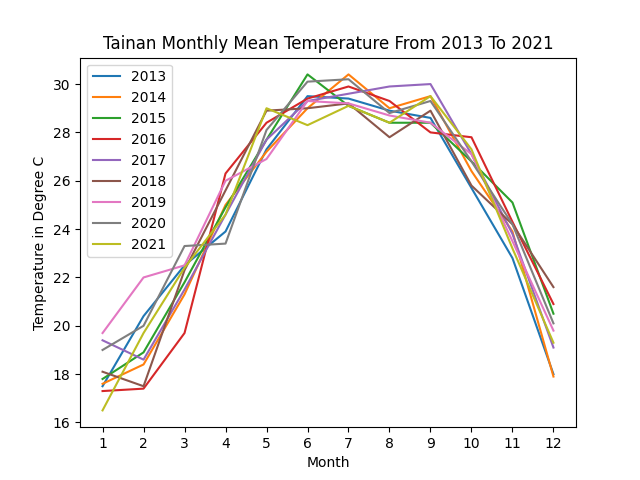
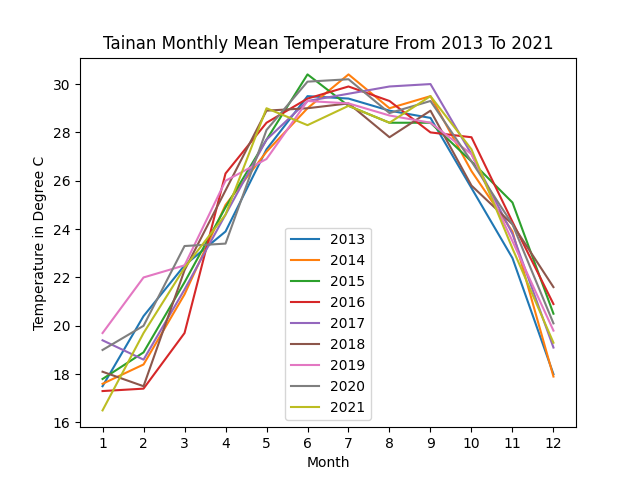
Add files via upload

Changed region(s): [[0.125, 0.125, 0.2812, 0.5312], [0.4375, 0.4688, 0.5938, 0.875], [0.4375, 0.8438, 0.5, 0.875]]

diff --git a/lab13/lab13.py b/lab13/lab13.py
@@ -1,38 +1,38 @@
-import numpy as np
+import numpy as np 
 import matplotlib.pyplot as plt
-column, row = 9, 12
-temp_list=np.zeros((column, row))
-years=[]
+column, row = 9, 12#建立9*12的空的二維陣列
+temp_list=np.zeros((column, row))#將每個元素設為零
+years=[]#儲存年分
 count=0
-with open('Temperature.txt', 'r') as f:
-    for line in f.readlines():
+with open('Temperature.txt', 'r') as f:#讀檔
+    for line in f.readlines():#一行一行讀
         
-        line1=line.strip('\n')
-        line1=line1.split(', ')
-        if len(line1)==1:
+        line1=line.strip('\n')#去掉\n
+        line1=line1.split(', ')#將line1用,分割成串列
+        if len(line1)==1:#去掉第一行
             pass
         else:
-            years.append(line1[0])
-            for i in range(1,13):
+            years.append(line1[0])#紀錄年分
+            for i in range(1,13):#儲存當年溫度
                 temp_list[count-1][i-1]=line1[i]
         count+=1
         
     print(temp_list)
-    f.close
-month=[]
-for i in range(1,13):
+    f.close#關閉檔案
+month=[]#記錄月份
+for i in range(1,13):#儲存月份
     month.append(i)
-for i in range(0,9):
+for i in range(0,9):#計算平均溫度
     plt.plot(month, temp_list[i],label=str(2013+i))
 plt.title('Tainan Monthly Mean Temperature From 2013 To 2021')
 plt.xlabel('Month')
 plt.ylabel('Temperature in Degree C')
 plt.xticks(month,month)
-plt.legend()
+plt.legend(loc='lower center')
 plt.savefig('lab13_01.png')
 
-avg_temp=[]
-avg_ans=0
+avg_temp=[]#紀錄每個月平均溫度
+avg_ans=0#記錄總平均溫度
 sum=0
 for i in month:
     for j in range(9):
@@ -41,13 +41,12 @@ for i in month:
     avg_ans+=sum/9
     sum=0
 avg_ans=avg_ans/12
-plt.clf() 
-plt.plot(month, avg_temp,marker='.',mec = 'r', mfc = 'r')
-plt.axhline(y=avg_ans,linestyle='--',color='r',label='Mean of 9 years')
+plt.clf() #重整
+plt.plot(month, avg_temp,marker='.',mec = 'r', mfc = 'r')#平均溫度變化標記的邊緣與面都是紅色
+plt.axhline(y=avg_ans,linestyle='--',color='r',label='Mean of 9 years')#總平均溫度 虛線
 for a,b in zip(month,avg_temp):
-    plt.text(a, b,'%.2f' % b, ha='center', va= 'bottom',fontsize=10)
-plt.text(1, avg_ans,'%.2f' % avg_ans, ha='center', va= 'bottom',fontsize=10)
-
+    plt.text(a, b,'%.2f' % b, ha='center', va= 'bottom',fontsize=10)#標出每個月平均溫度
+plt.text(1, avg_ans,'%.2f' % avg_ans, ha='center', va= 'bottom',fontsize=10)#標出總平均溫度數值
 plt.title('Tainan Monthly Mean Temperature From 2013 To 2021')
 plt.xlabel('Month')
 plt.ylabel('Temperature in Degree C')
@@ -66,14 +65,14 @@ plt.savefig('lab13_02.png')
 plt.clf() 
 fig = plt.figure(figsize=(15,6))
 
-plt.subplot(121)
+plt.subplot(121)#子圖表位置
 for i in range(0,9):
     plt.plot(month, temp_list[i],label=str(2013+i))
 plt.title('Tainan Monthly Mean Temperature From 2013 To 2021')
 plt.xlabel('Month')
 plt.ylabel('Temperature in Degree C')
 plt.xticks(month,month)
-plt.legend()
+plt.legend(loc='lower center')
 
 
 plt.subplot(122)
